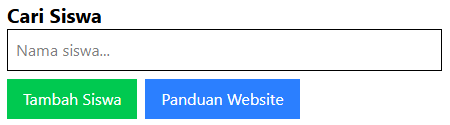
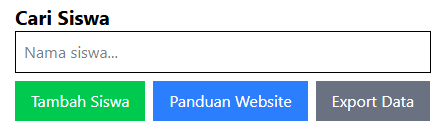
add panduan new

diff --git a/src/pages/Panduan.tsx b/src/pages/Panduan.tsx
@@ -41,7 +41,7 @@ const Panduan = () => {
             <img src="/src/assets/2.png" alt="Buat SP dan Cek SP" className="max-w-full" />
 
             <h2 className="text-2xl font-semibold mt-4">4. Membuat SP</h2>
-            <p className="text-gray-600">Masukkan keterangan pada kolom yang disediakan dan klik "Buat SP" maka akan muncul validasi lalu tekan OK untuk membuat SP</p>
+            <p className="text-gray-600">Pilih jenis pelanggaran dan masukkan keterangan pada kolom yang disediakan dan klik "Buat SP" maka akan muncul validasi lalu tekan OK untuk membuat SP</p>
             <img src="/src/assets/3.png" alt="Buat SP dan Cek SP" className="max-w-full" />
             <img src="/src/assets/4.png" alt="Buat SP dan Cek SP" className="max-w-full" />
 
@@ -49,9 +49,15 @@ const Panduan = () => {
             <p className="text-gray-600">Klik cek SP untuk cek SP siswa tersebut, setelah itu akan muncul halaman detail siswa tersebut pernah berapa kali mendapat SP lengkap dengan tanggal dan hari serta keterangan</p>
             <img src="/src/assets/5.png" alt="Buat SP dan Cek SP" className="max-w-full" />
 
-            <Link to="/" className="mt-6 inline-block px-4 py-2 bg-blue-500 text-white rounded-lg">
-                Kembali ke Beranda
-            </Link>
+            <h2 className="text-2xl font-semibold mt-4">6.Export Data</h2>
+            <p className="text-gray-600">Klik Export Data pada halaman utama untuk mengunduh data SP</p>
+            <img src="/src/assets/6.png" alt="Buat SP dan Cek SP" className="max-w-full" />
+            <p className="text-gray-600">Pilih rentang tanggal pada halaman utama untuk mengunduh data SP, per hari, per bulan, atau per tahun</p>
+            <img src="/src/assets/7.png" alt="Buat SP dan Cek SP" className="max-w-full" />
+            <p className="text-gray-600">Data berhasil diunduh, silahkan cek di folder download</p>
+            <img src="/src/assets/8.png" alt="Buat SP dan Cek SP" className="max-w-full" />
+
+
         </div>
     );
 };
